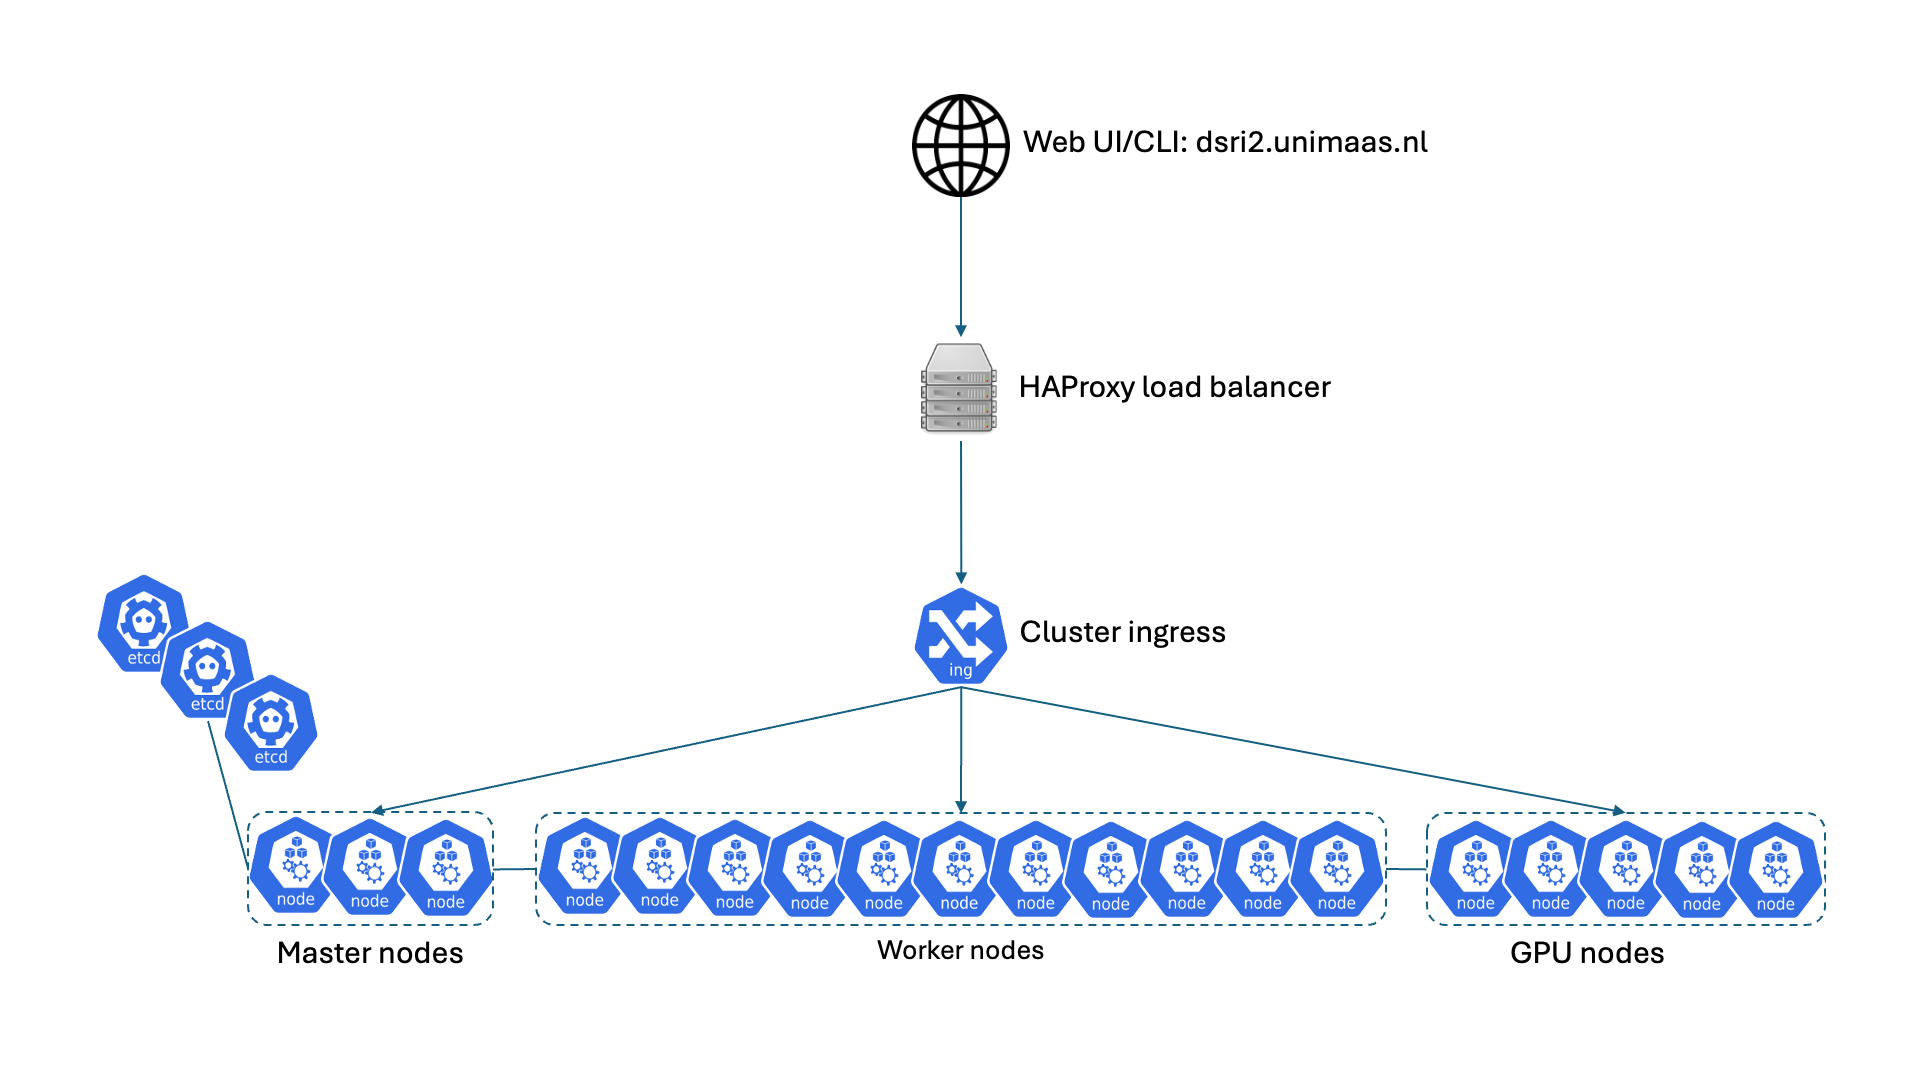
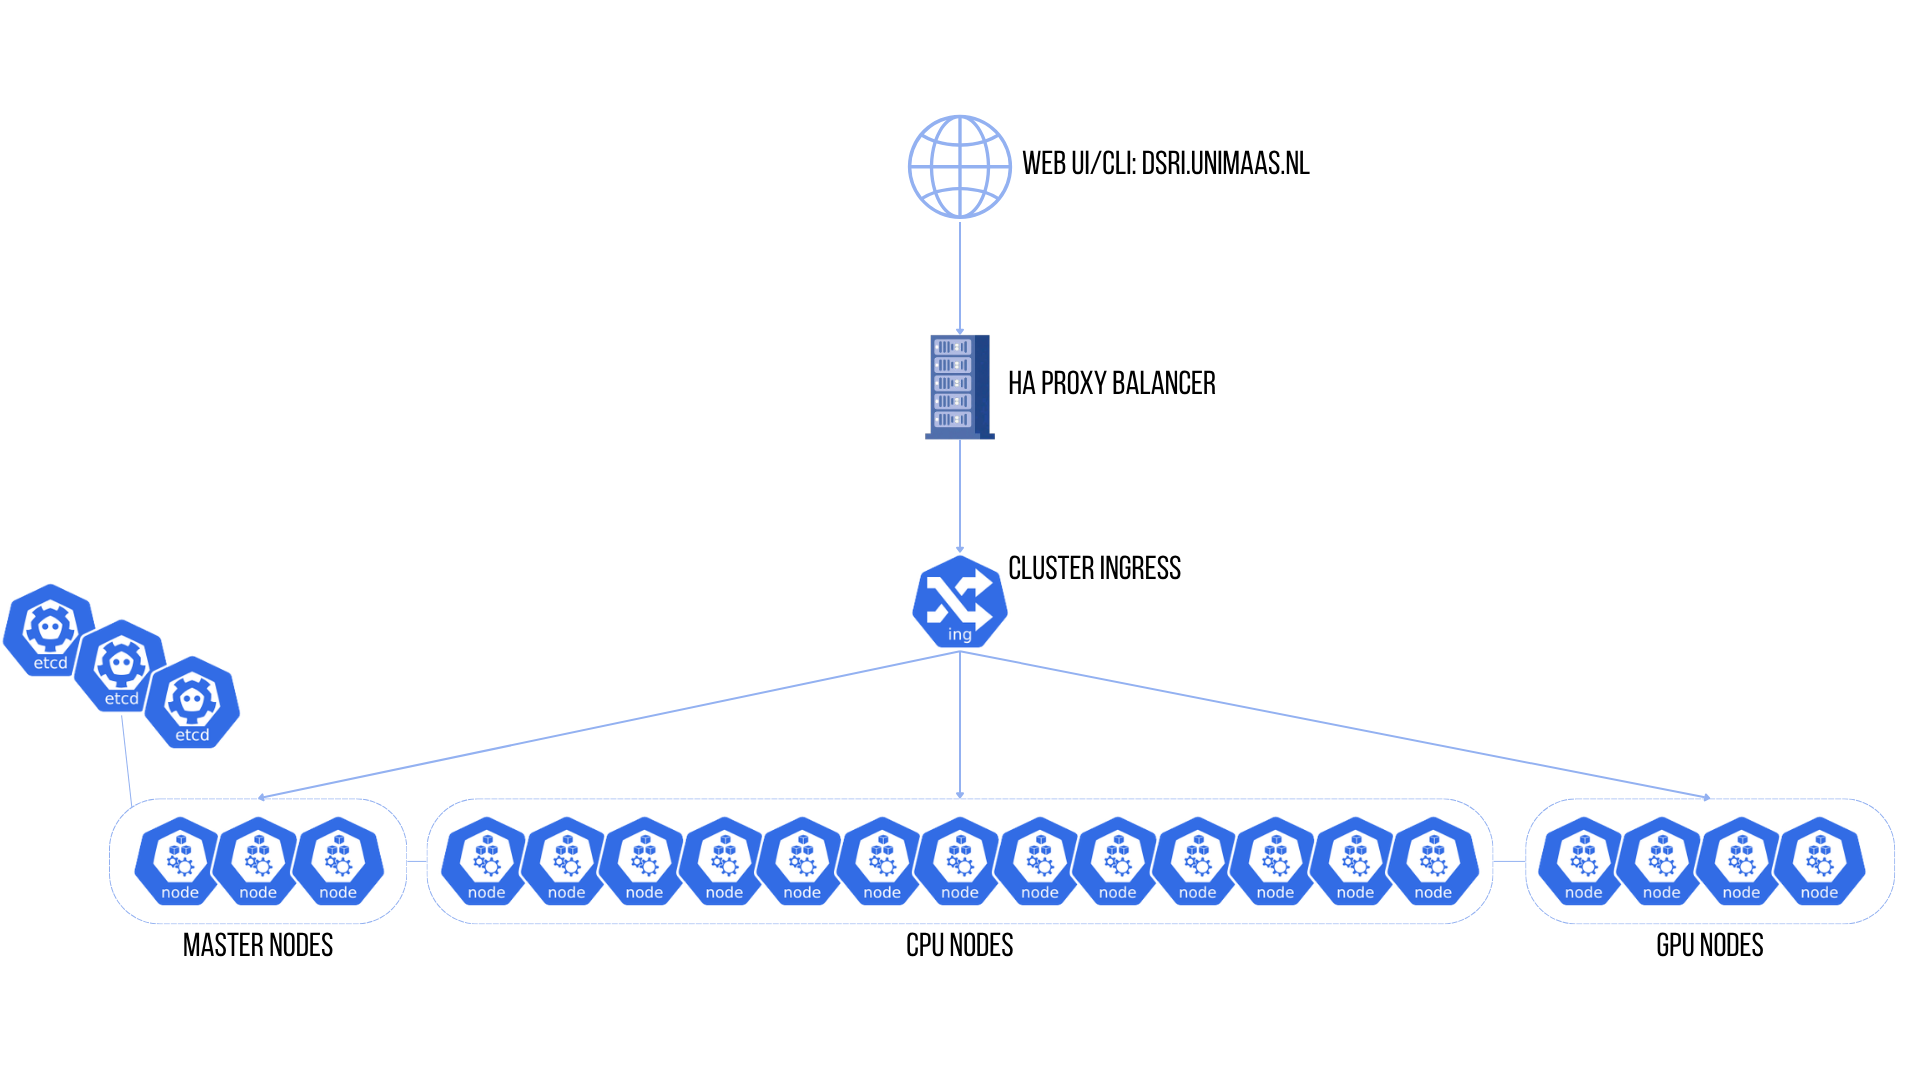
Update the Software & Hardware subpage [RCS-930]
[Update the Software & Hardware subpage RCS-930]

Pull request: [Update the Software & Hardware subpage RCS-930]
Before sending a pull request make sure the DSRI documentation website still work as expected with the new changes properly integrated. Check the README to run the website in a development environment: https://github.com/MaastrichtU-IDS/dsri-documentation#run-for-development

## Motivation

Shortly describe what motivated those changes

## Changes added

List the changes added to the documentation here

diff --git a/website/docs/specs.md b/website/docs/specs.md
@@ -7,52 +7,56 @@ title: Software & Hardware
 
 ### Software
 
-We use [**OKD 4.14**](https://www.okd.io/), the Origin Community Distribution of Kubernetes that powers [RedHat OpenShift](https://www.openshift.com/), a distribution of the Kubernetes container orchestration tool. Kubernetes takes care of deploying the Docker containers on the cluster of servers, the OKD distribution extends it to improve security, and provide a user-friendly web UI to manage your applications.
+#### Platform
 
-DSRI provides a graphical user interface on top of the [Kubernetes](https://kubernetes.io/) containers orchestration to easily deploy and manage workspaces and services. 
+We use [**OKD 4.21**](https://www.okd.io/), the Origin Community Distribution of Kubernetes that powers [RedHat OpenShift](https://www.openshift.com/), a distribution of the [Kubernetes](https://kubernetes.io/) container orchestration tool. Kubernetes takes care of deploying the Docker containers on the cluster of servers, the OKD distribution extends it to improve security, and provide a user-friendly web UI to manage your applications.
 
-We use [**RedHat Ceph storage**](https://www.redhat.com/fr/technologies/storage/ceph) for the distributed storage.
+#### Storage
 
-DSRI works best when you work with code, scripts to run, and web applications. Especially if they require an important amount of computing resources. If you work on desktop softwares with graphical user interface, such as Matlab or Spyder, the installation will be much more complex, and usually using your laptop will be more comfortable, stable and reactive than accessing a desktop interface on a remote server through the UM VPN.
+We use [**RedHat Ceph storage**](https://www.redhat.com/en/technologies/storage/ceph) for the distributed storage.
 
-Here is a non-exhaustive list of some of the applications that can easily be deployed on the DSRI:
+#### Deployable Applications
 
+DSRI works best when you work with code, scripts to run, and web applications. Especially if they require an important amount of computing resources. 
+
+Below is a non-exhaustive list of applications that can be easily deployed:
+
+**Development Environments**
 * Multiple flavors of [JupyterLab](https://github.com/jupyter/docker-stacks) (scipy, tensorflow, all-spark, and more)
-* JupyterHub with various authentication methods such as GitHub authentication
-* RStudio, with a complementary Shiny server
+* JupyterHub with various authentication methods (e.g. GitHub authentication)
+* RStudio with a complementary Shiny server
 * VisualStudio [Code server](https://github.com/cdr/code-server)
 * Tensorflow or PyTorch on Nvidia GPU (with JupyterLab or VisualStudio Code)
 
-* SQL databases (MariaDB, MySQL, PostgreSQL)
-* NoSQL databases (MongoDB, Redis)
-* Graph databases (GraphDB, Blazegraph, Virtuoso)
-* Or any program installed in a Docker image!
+**Databases**
+* SQL: MariaDB, MySQL, PostgreSQL
+* NoSQL: MongoDB, Redis
+* Graph: GraphDB, Blazegraph, Virtuoso
+
+_...or any program installed in a Docker image!_
+
+> **Note:** If you work on desktop software with graphical user interfaces, such as Matlab or Spyder, the installation will be much more complex, and usually using your laptop will be more comfortable, stable and reactive than accessing a desktop interface on a remote server through the UM VPN.
 
 ### Hardware
 
-* 14 CPU nodes
-
 |                | CPU                             | Cores                     | RAM                 | Storage      | Type                     |
 | -------------- | ------------------------------- | ------------------------- | ------------------- | ------------ | ------------------------ |    
-| 11x CPU node   | 2x AMD EPYC 7551 32-Core 3.0GHz | 64 cores (128 threads)    | 512 GB DDR4 2666MHz | 120 TB       | Dell EMC PowerEdge R7425 |
-| 3x CPU Node    | 2x AMD EPYC 7551 32-Core 3.0GHz | 64 cores (128 threads)    | 512 GB DDR4 2666MHz | -            | Dell EMC PowerEdge R7425 |      
-| Total capacity | 28 CPUs                         | 896 cores (1 792 threads) | 7 168 GB            | 1 320 TB     | -                        |
-
-#
-
-* 5 GPU nodes - Note that we currently only allow one GPU being booked at the same time per user. Please refer to the [GPU Booker](https://dsri.maastrichtuniversity.nl/gpu-booking/) for more information. Additionally, the L40S GPUs cannot be booked as they are dedicated to certain research departments. Please contact us if you would like to know more about possibilities for co-investing in the DSRI to have your own hardware!
+| 16x CPU node   | 2x AMD EPYC 9555 64-Core 3.2GHz | 128 cores (256 vCPUs/threads)    | 1024GB DDR5 memory (3200MHz) | 5x 15TB NVME drives (75TB)       | Dell EMC PowerEdge R7725 |  
+| Total capacity | 32 CPUs                         | 2048 cores (4096 vCPUs/threads) | 16384 GB            | 1200 TB     | -                        |
 
 
 |                      | GPU                | CPU                              | Cores                     | RAM                  | Type                     | Can be booked
 | -------------------- | ------------------ | -------------------------------- | ------------------------- | -------------------- | ------------------------ | ------------- |
-| 2x GPU node capacity | 2 NVIDIA H100 80GB | 2x AMD EPYC 7763 64-Core 3.5GHz  | 128 cores (256 threads)   | 512 GB DDR4 3200MHz  | Dell EMC PowerEdge R7525 | Yes           |       
-| 1x GPU node capacity | 2 NVIDIA A100 80GB | 2x AMD EPYC 7763 64-Core 3.5GHz  | 128 cores (256 threads)   | 512 GB DDR4 3200MHz  | Dell EMC PowerEdge R7525 | Yes           |
-| 1x GPU node capacity | 1 NVIDIA A100 80GB | 2x AMD EPYC 7763 64-Core 3.5GHz  | 128 cores (256 threads)   | 512 GB DDR4 3200MHz  | Dell EMC PowerEdge R7525 | Yes           |
-| 1x GPU node capacity | 4 NVIDIA L40S 48GB | 2x AMD EPYC 9554 64-Core 3.75GHz | 128 cores (256 threads)   | 1512 GB DDR5 4800MHz | HPE ProLiant DL385 Gen11 | No            |
-| Total capacity       | 11 GPUs            | 10 CPUs                          | 640 cores (1 280 threads) | 8 192 GB             | -                        |               |
+| 2x GPU node capacity | 2 NVIDIA H100 80GB | 2x AMD EPYC 7763 64-Core 3.5GHz  | 128 cores (256 vCPUs/threads)   | 512 GB DDR4 (3200MHz)  | Dell EMC PowerEdge R7525 | Yes           |       
+| 1x GPU node capacity | 2 NVIDIA A100 80GB | 2x AMD EPYC 7763 64-Core 3.5GHz  | 128 cores (256 vCPUs/threads)   | 512 GB DDR4 (3200MHz)  | Dell EMC PowerEdge R7525 | Yes           |
+| 1x GPU node capacity | 1 NVIDIA A100 80GB | 2x AMD EPYC 7763 64-Core 3.5GHz  | 128 cores (256 vCPUs/threads)   | 512 GB DDR4 (3200MHz)  | Dell EMC PowerEdge R7525 | Yes           |
+| 1x GPU node capacity | 4 NVIDIA L40S 48GB | 2x AMD EPYC 9554 64-Core 3.75GHz | 128 cores (256 vCPUs/threads)   | 1536 GB DDR5 (4800MHz) | HPE ProLiant DL385 Gen11 | No            |
+| Total capacity       | 11 GPUs            | 10 CPUs                          | 640 cores (1280 vCPUs/threads) | 8192 GB             | -                        |               |
 
 
 <img src="/img/DSRI_infrastructure_architecture_overview.png" alt="DSRI infrastructure" style={{maxWidth: '100%', maxHeight: '100%'}} />
+
+> **Note:** We currently only allow one GPU being booked per user at a time. Please refer to the [GPU Booker](https://dsri.maastrichtuniversity.nl/gpu-booking/) for more information. Additionally, the L40S GPUs cannot be booked as they are dedicated to certain research departments. Please [contact us](https://dsri.maastrichtuniversity.nl/contact) if you would like to know more about possibilities for co-investing in the DSRI to have your own hardware!
 
 <!-- Old presentation, commented out until we have a new presentation 2025-05-23
 ## Learn more about DSRI